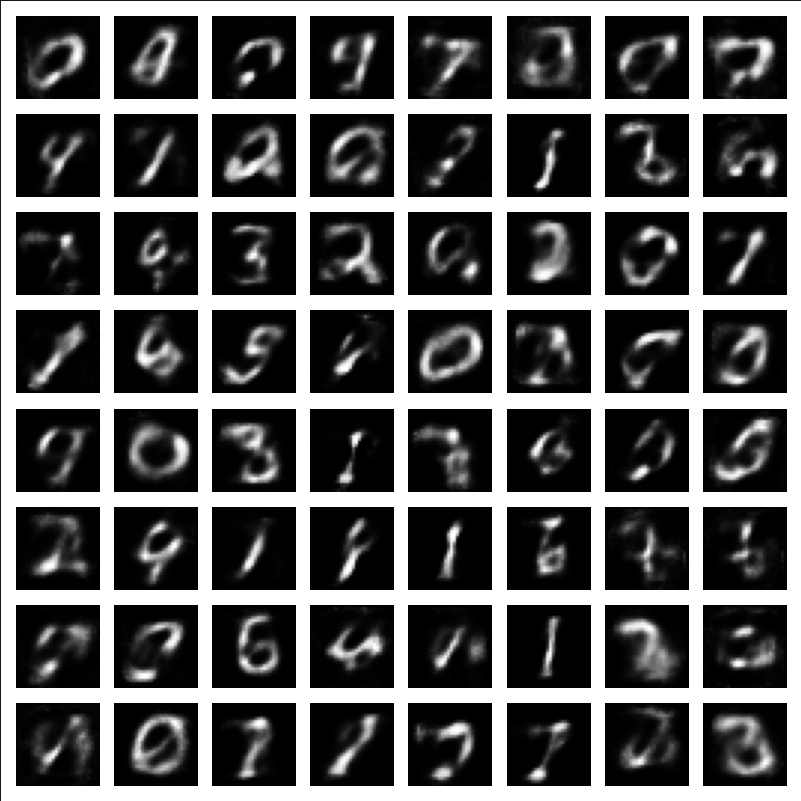
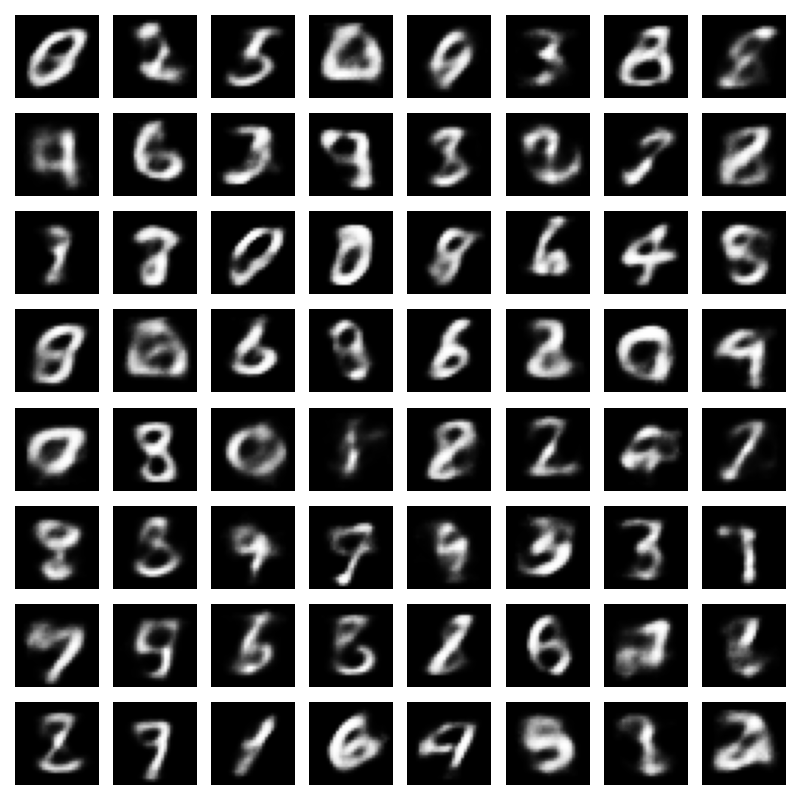
vae_mnist #4

diff --git a/examples/vae_mnist/vae_mnist.py b/examples/vae_mnist/vae_mnist.py
@@ -122,13 +122,13 @@ class HierarchicalVAE(nn.Module):
 
 
 input_dim = 784
-hidden_dim = 100
+hidden_dim = 200
 latent_dim = 20
 
-num_layers = 2
+num_layers = 1
 epochs = 30
-learning_rate = 1e-3
-batch_size = 100
+learning_rate = 3e-4
+batch_size = 32
 
 
 dataset = datasets.MNIST(root="data/mnist/", train=True, download=False)
